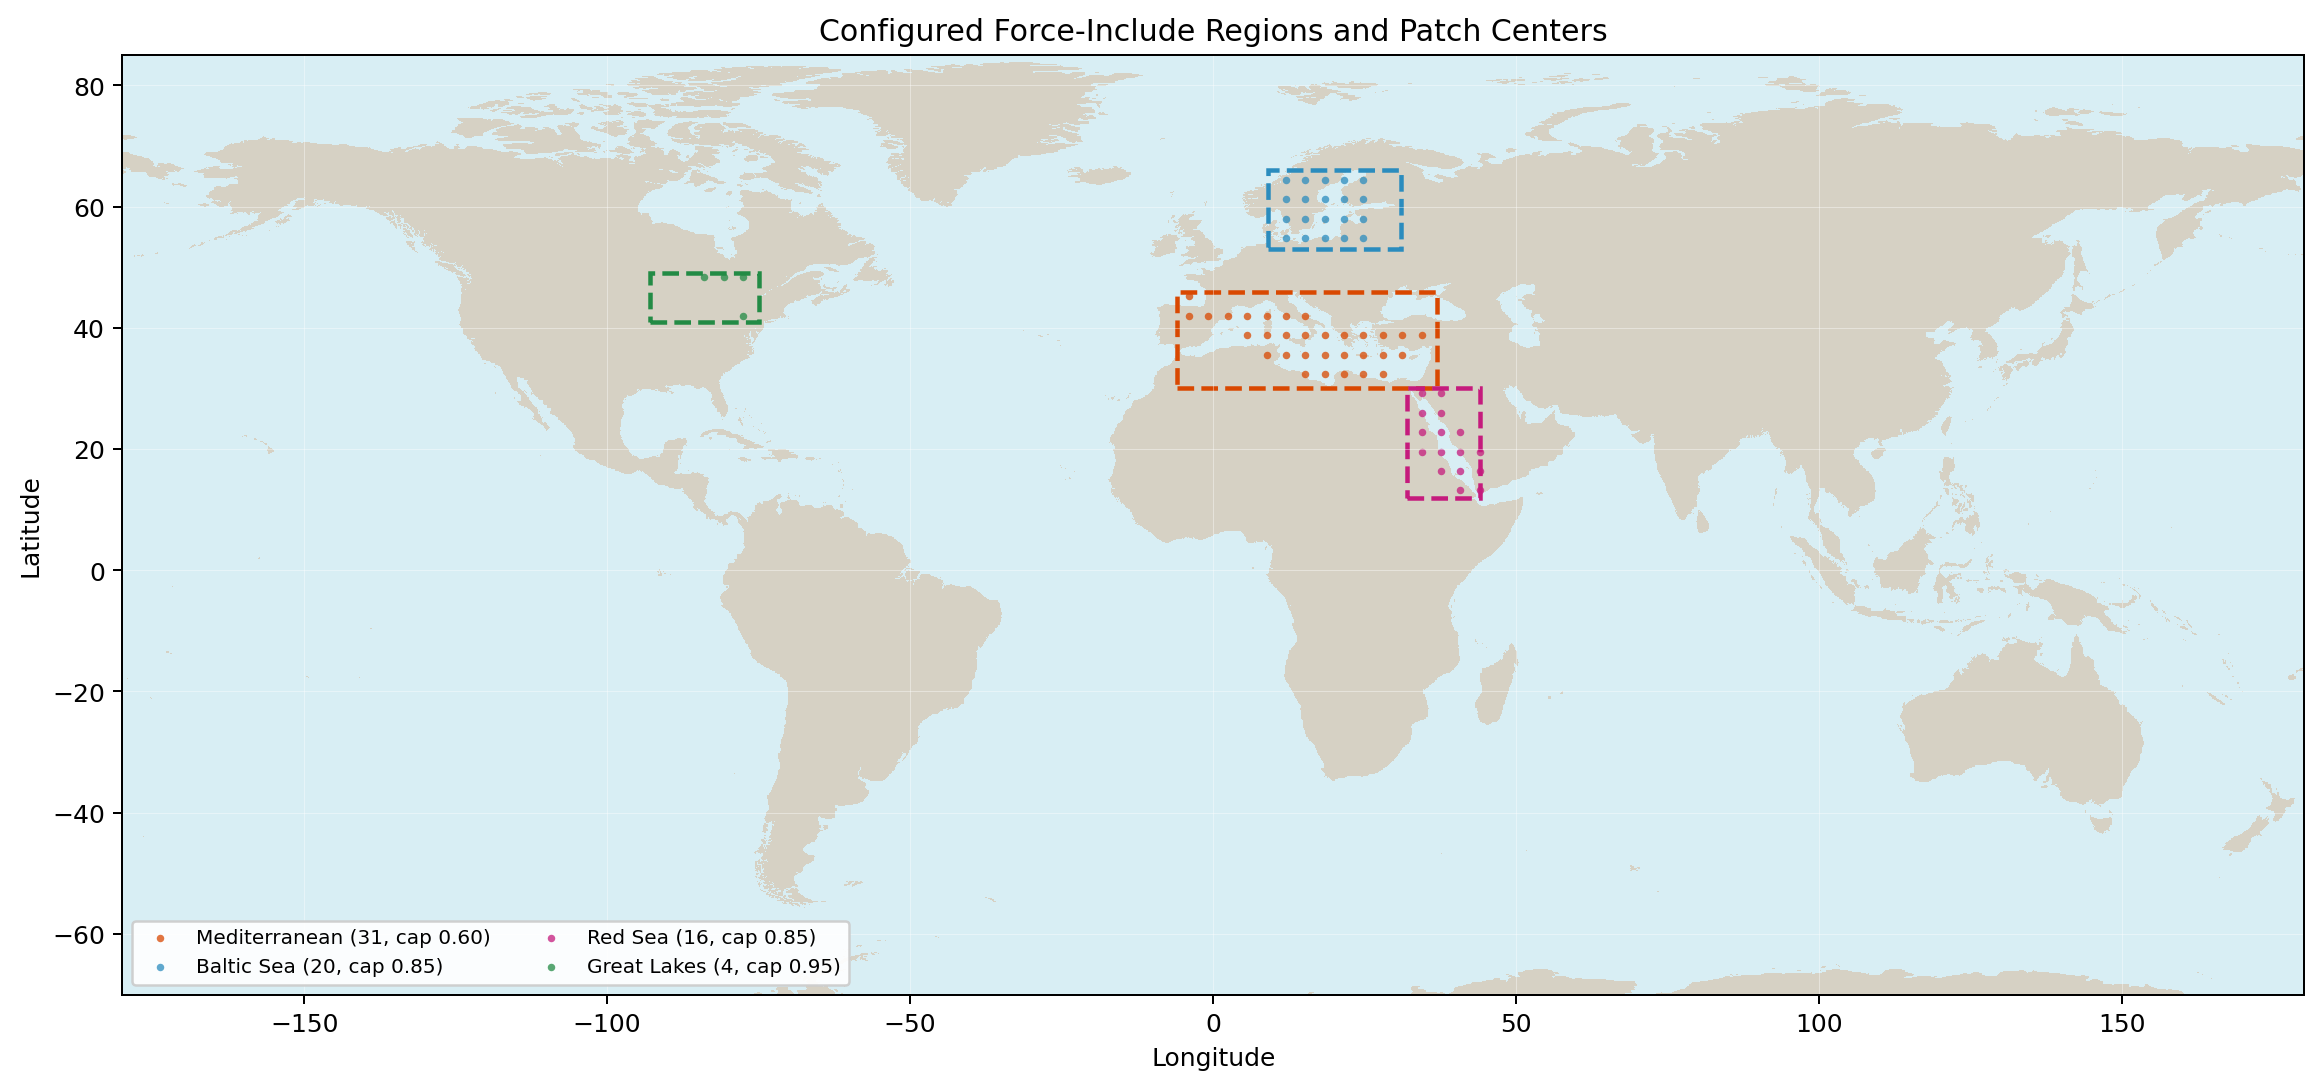
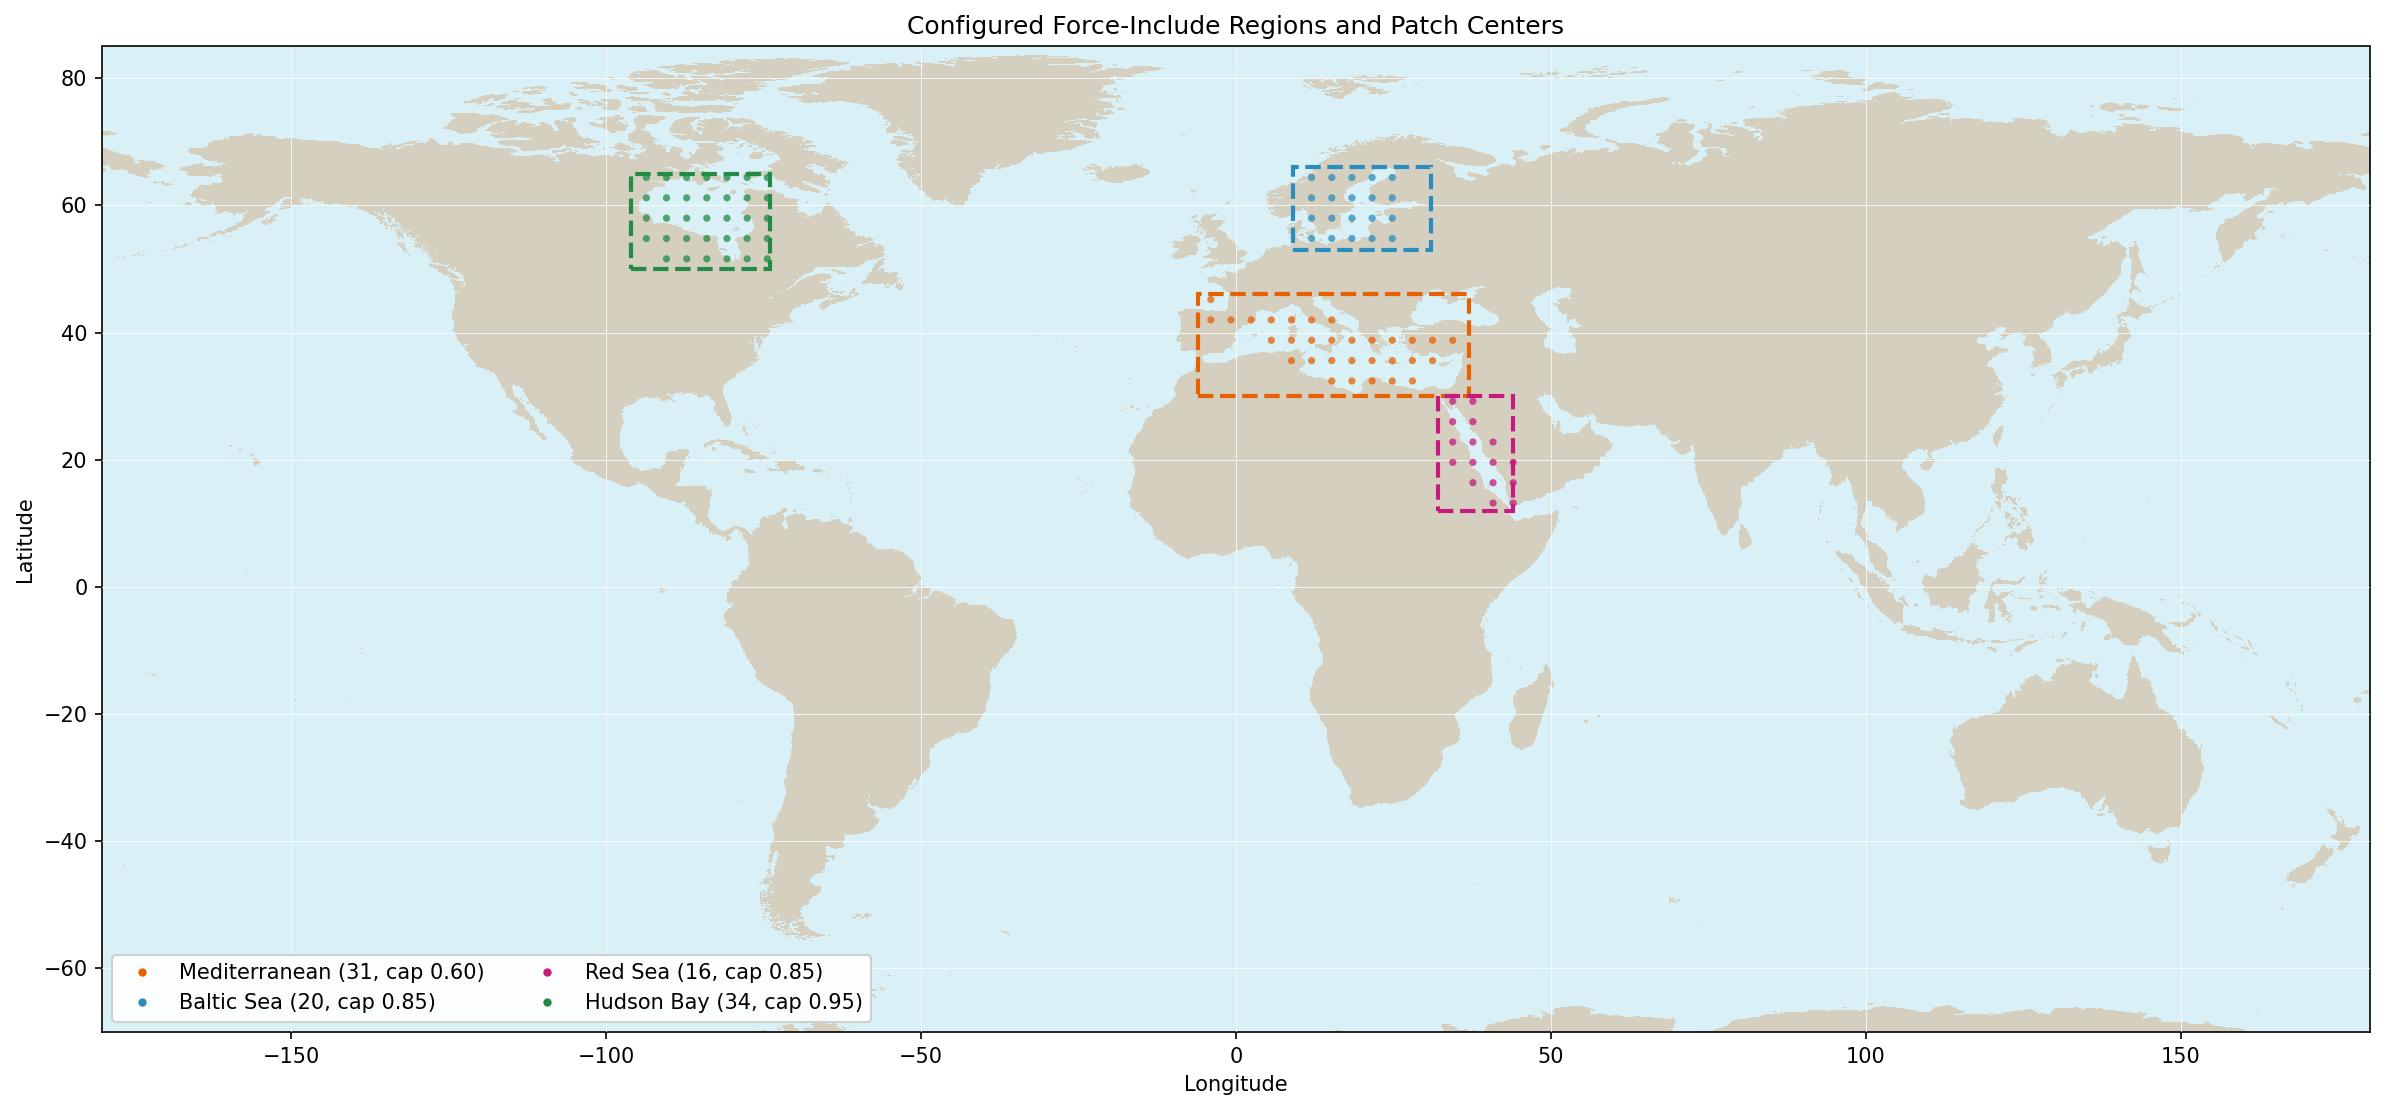
change from gr. lakes to hudson force include

diff --git a/tests/test_argo_geotiff_gridded_dataset.py b/tests/test_argo_geotiff_gridded_dataset.py
@@ -317,6 +317,6 @@ class TestArgoGeoTIFFGriddedPatchDataset(unittest.TestCase):
         self.assertTrue(Path(grid["land_mask_path"]).exists())
         self.assertEqual(
             [region["name"] for region in grid["force_include_regions"]],
-            ["mediterranean", "baltic", "red_sea", "great_lakes"],
+            ["mediterranean", "baltic", "red_sea", "hudson_bay"],
         )
         self.assertEqual(payload["split"]["val_year"], 2018)

diff --git a/tests/test_argo_netcdf_gridded_dataset.py b/tests/test_argo_netcdf_gridded_dataset.py
@@ -449,7 +449,7 @@ class TestArgoNetCDFGriddedPatchDataset(unittest.TestCase):
         self.assertTrue(Path(grid["land_mask_path"]).exists())
         self.assertEqual(
             [region["name"] for region in grid["force_include_regions"]],
-            ["mediterranean", "baltic", "red_sea", "great_lakes"],
+            ["mediterranean", "baltic", "red_sea", "hudson_bay"],
         )
 
     def test_synthetic_mode_samples_sparse_x_from_glorys_y(self) -> None:

diff --git a/docs/production-datasets.md b/docs/production-datasets.md
@@ -62,7 +62,7 @@ dataset computes the fraction of land pixels and keeps the patch when
 `land_fraction <= dataset.grid.max_land_fraction`.  
 
 The default cap is `0.30`, so normal retained patches are at least 70% ocean.  
-Patches centered on the Mediterranean, Baltic, Red Sea, and Great Lakes are force-included with a relaxed land cap through  
+Patches centered on the Mediterranean, Baltic, Red Sea, and Hudson Bay are force-included with a relaxed land cap through
 `dataset.grid.force_include_regions`, because those water bodies are narrow or coastline-heavy and would  
 otherwise lose useful ocean context around coastlines.  
 The figure labels show the current region-specific land caps and retained patch counts.
@@ -127,7 +127,7 @@ masks.
   require `split.val_year`.  
 - `dataset.grid.max_land_fraction` filters land-heavy patches from the  
   committed GLORYS-aligned world mask.  
-- `dataset.grid.force_include_regions` keeps patches centered on the Mediterranean, Baltic, Red Sea, and Great Lakes up  
+- `dataset.grid.force_include_regions` keeps patches centered on the Mediterranean, Baltic, Red Sea, and Hudson Bay up
   to a relaxed land fraction so the training registry retains those water bodies.  
 - `dataset.sampling.temporal_window_days` controls the centered ARGO profile  
   search window for each patch date.  